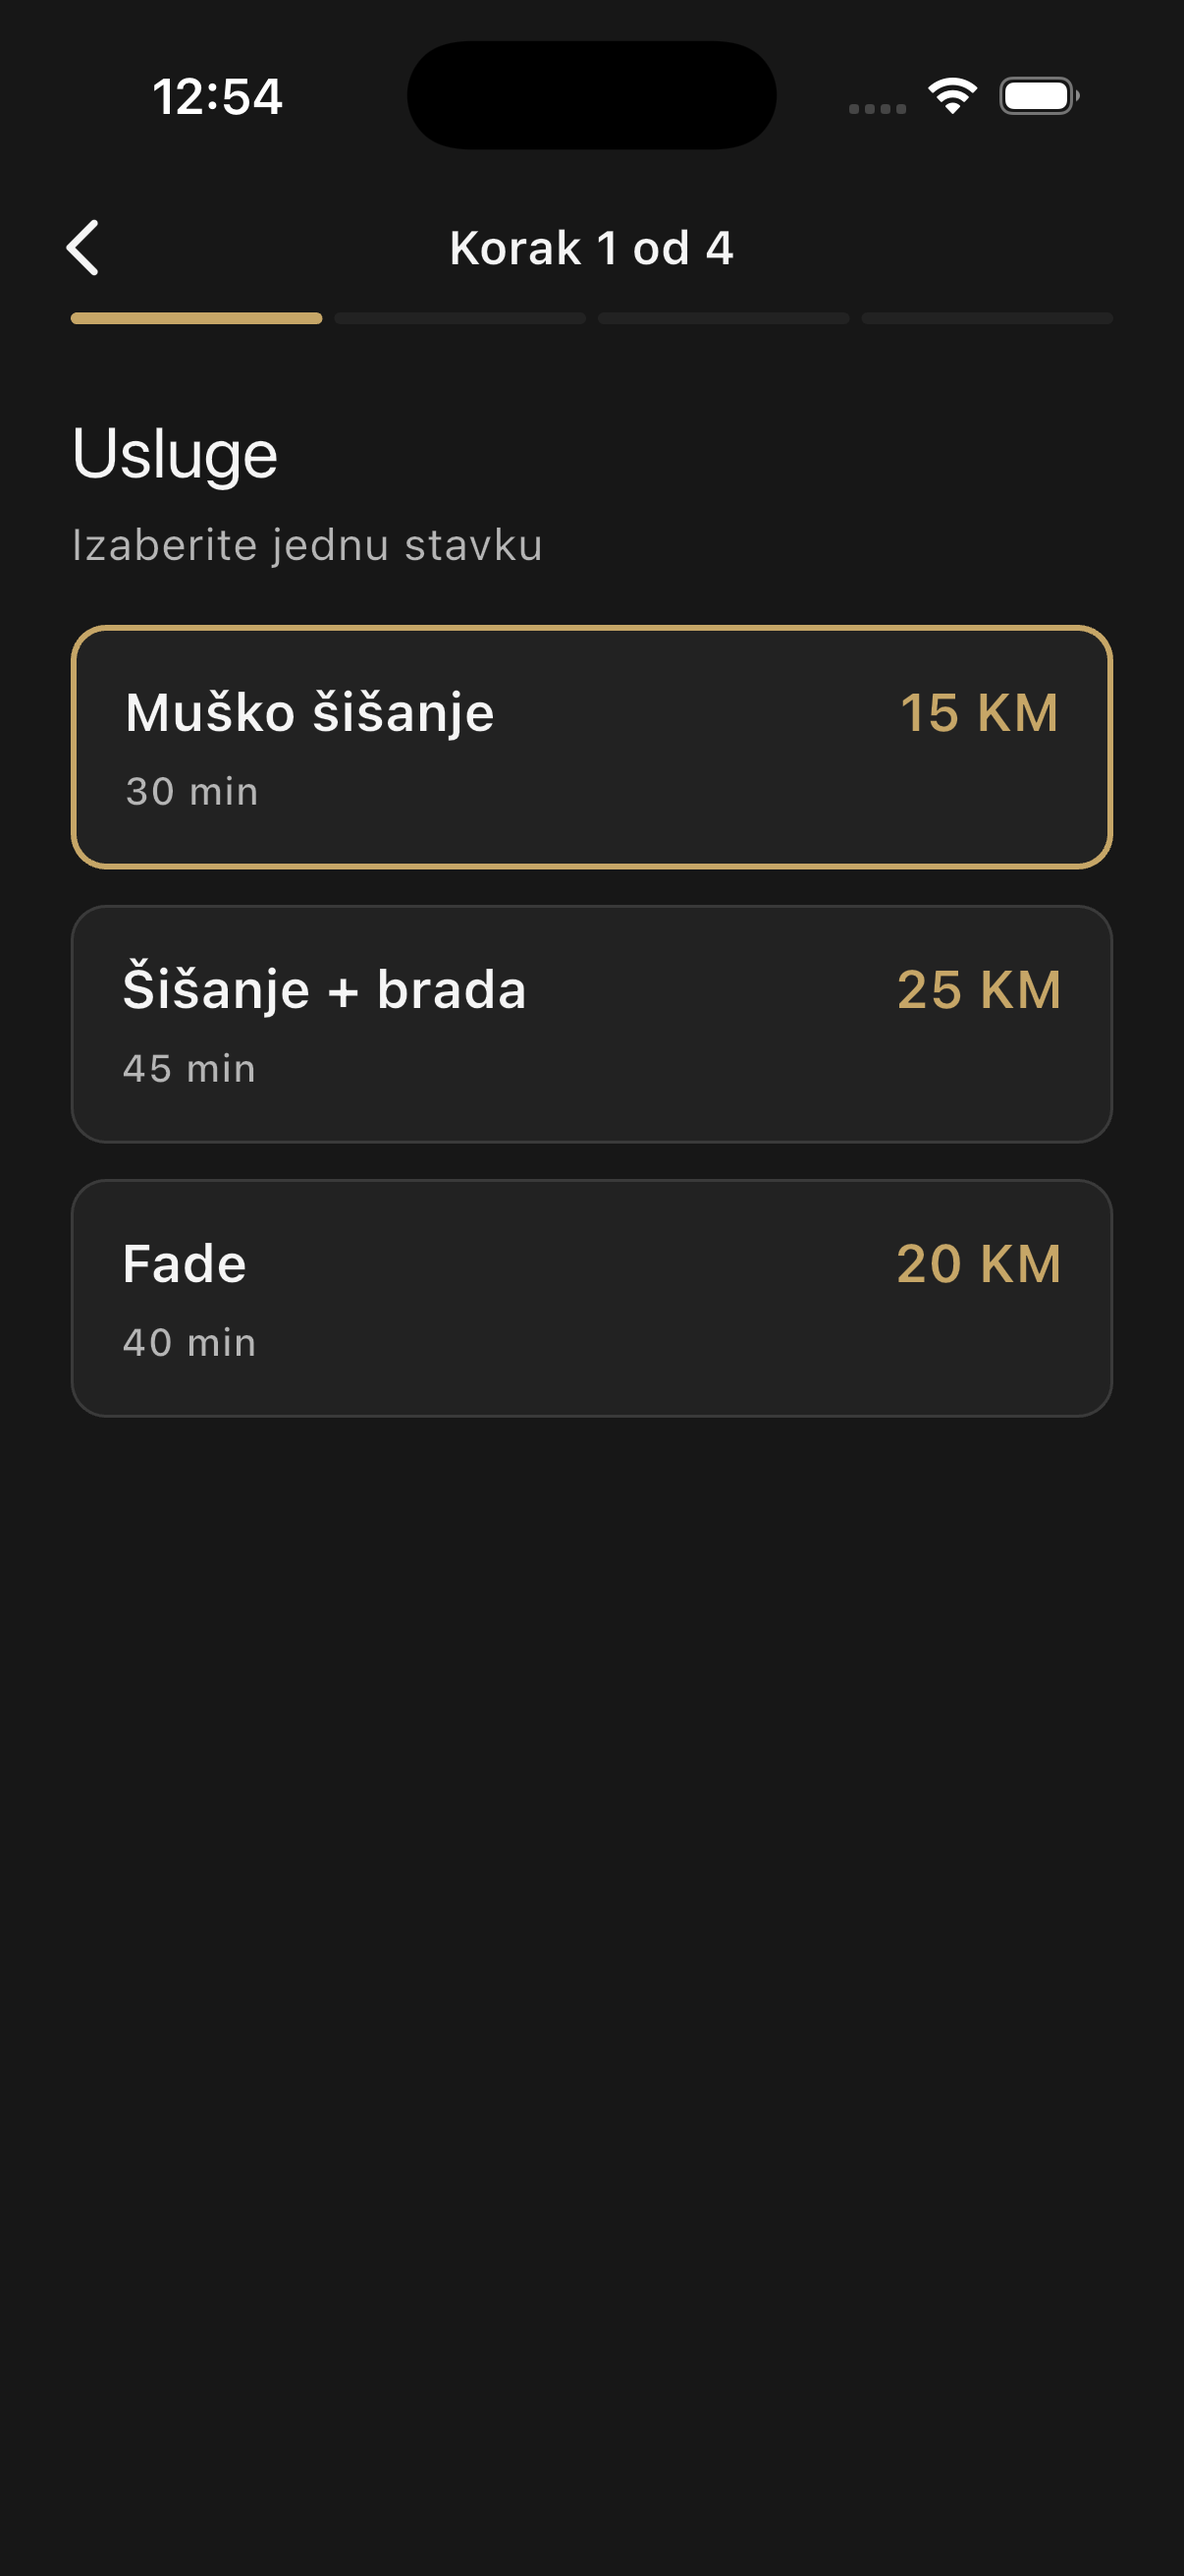
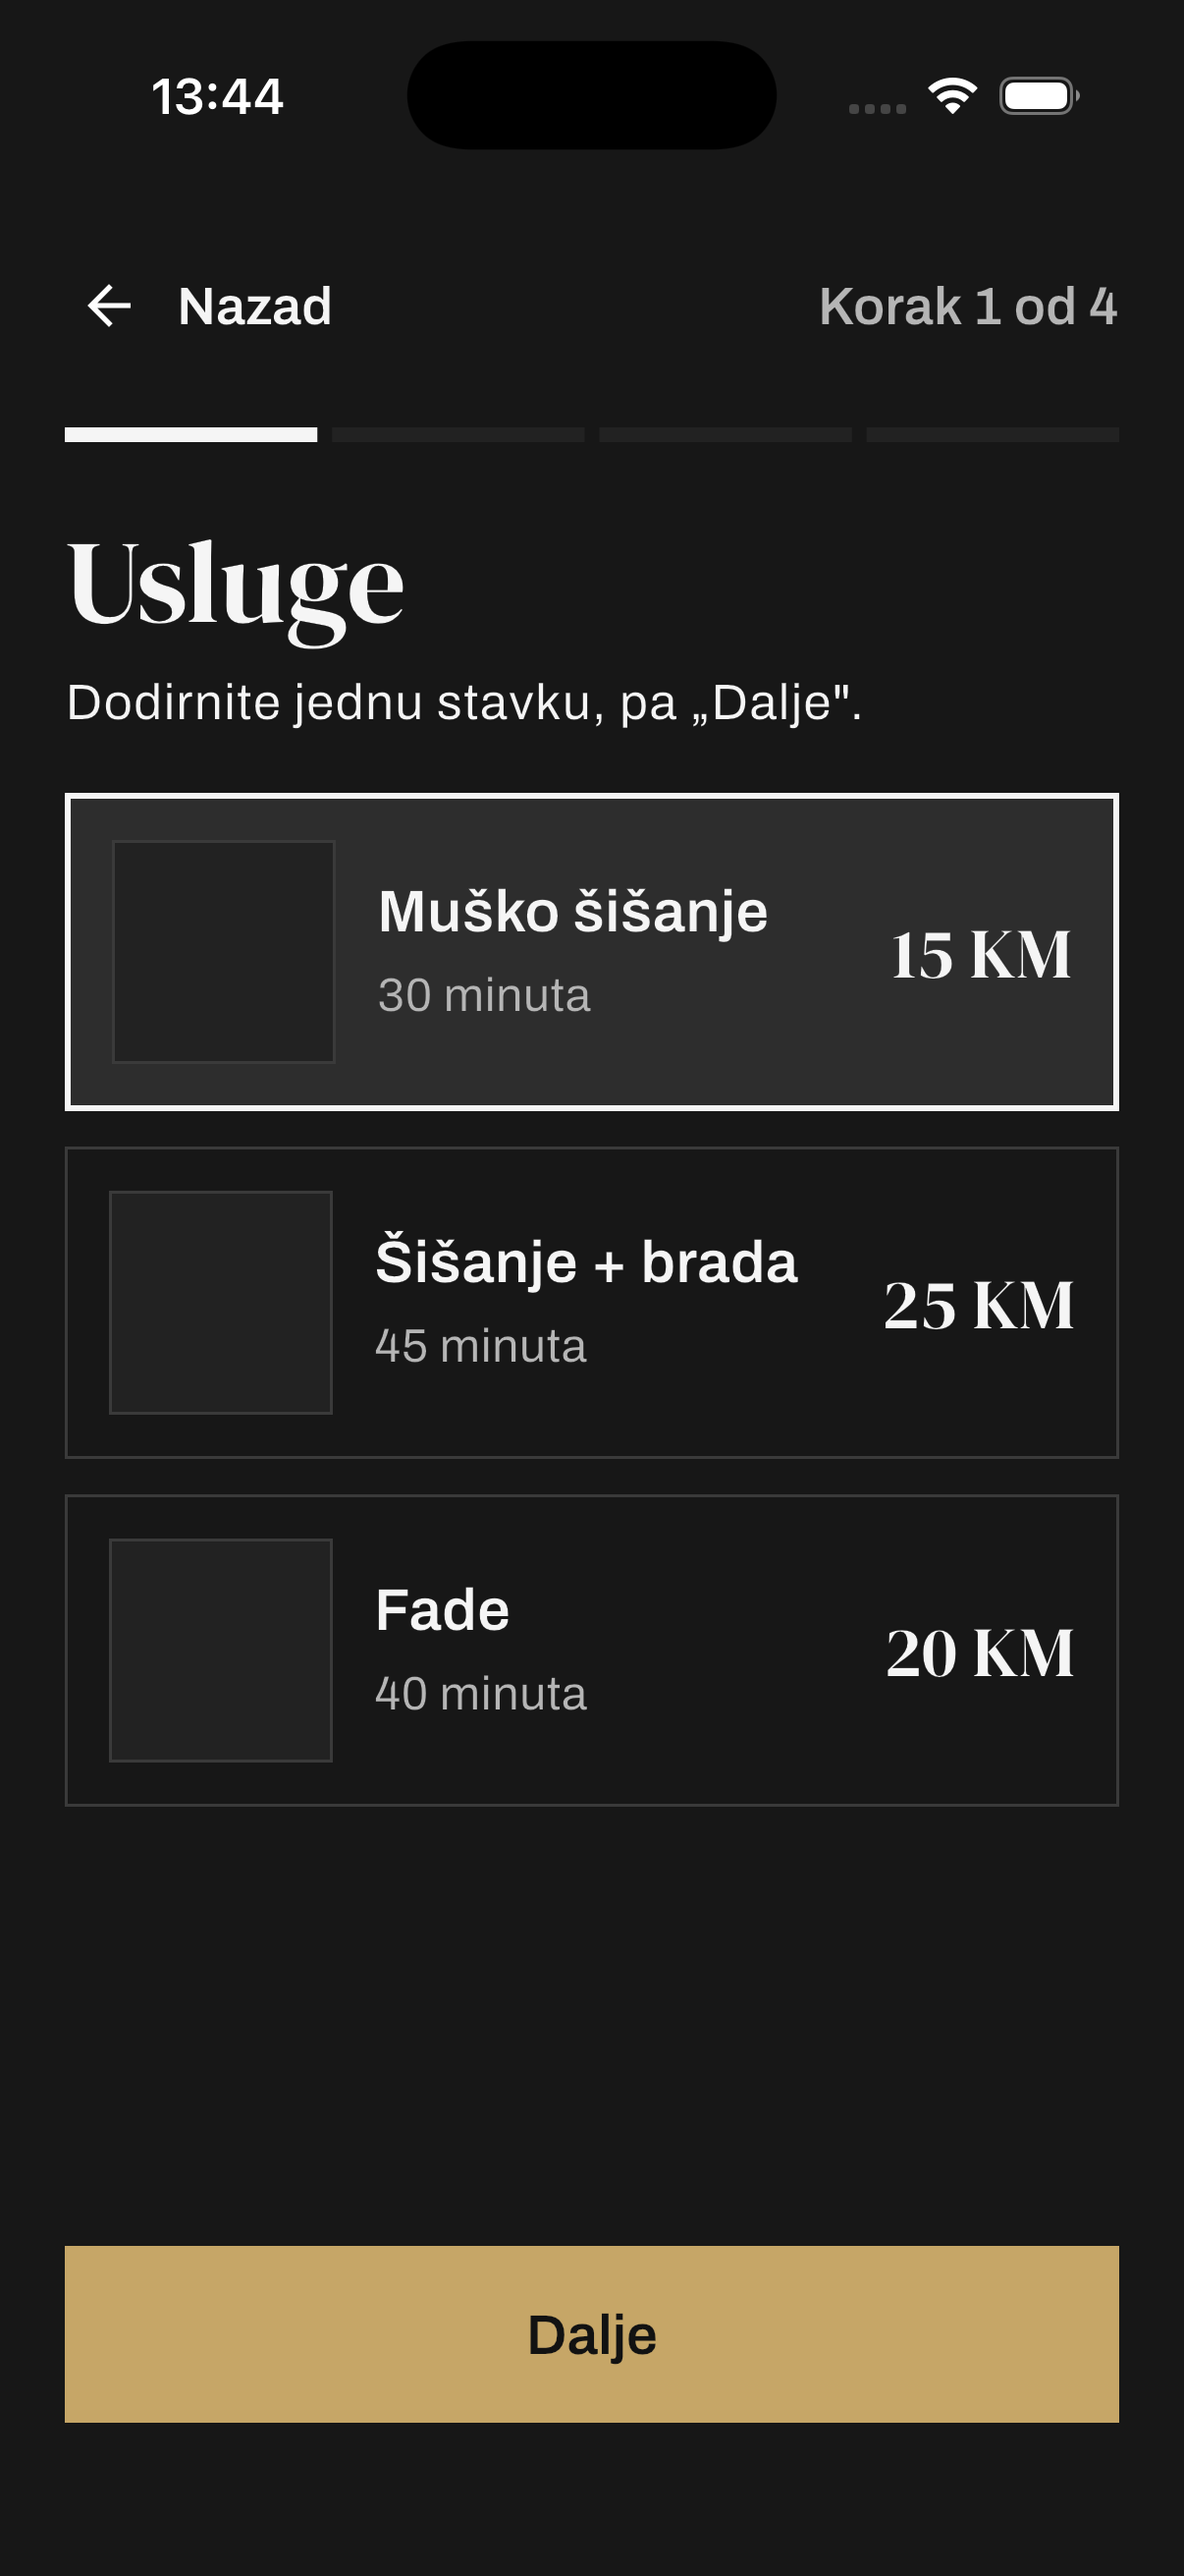
docs(tasks): redizajn potvrdjen na iOS simulatoru
Korak 1 u novom izgledu (serif naslov, uglati redovi sa okvirom za fotografiju,
cijena u serifu, CTA preko pune sirine) i guard na deep linku bez izabrane
usluge — oba iz flavor builda na iPhone 17 simulatoru.

Screenshot home ekrana iz prethodnog prolaza je uklonjen: prikazivao je stanje
prije redizajna, pa bi kao dokaz dizajna lagao.

diff --git a/tasks/sprint-1/11-booking-flow.md b/tasks/sprint-1/11-booking-flow.md
@@ -254,6 +254,11 @@ Obje zbog multi-tenanta, obje zapisane u doc komentaru ekrana:
 Vizuelno u Chromiumu na **402×874**, širini handoffa, oba tenanta:
 [`docs/screenshots/task-11-*`](../../docs/screenshots/).
 
+**Pokrenuto i na iOS simulatoru** (iPhone 17, iOS 26.3) iz flavor builda: korak 1 u redizajnu
+(`task-11-ios-sim-korak1-barber.png`) i guard na deep linku bez izabrane usluge
+(`task-11-ios-sim-guard-barber.png`). Prethodni screenshot home ekrana je uklonjen — prikazivao je
+stanje prije redizajna, a kao dokaz dizajna bi lagao.
+
 Beauty tenant je usput otkrio grešku u demo podacima: success ekran je pokazivao **prazan red** za
 uslugu, jer je demo termin nosio barberov `serviceId`, kojeg u beauty katalogu nema.
 
